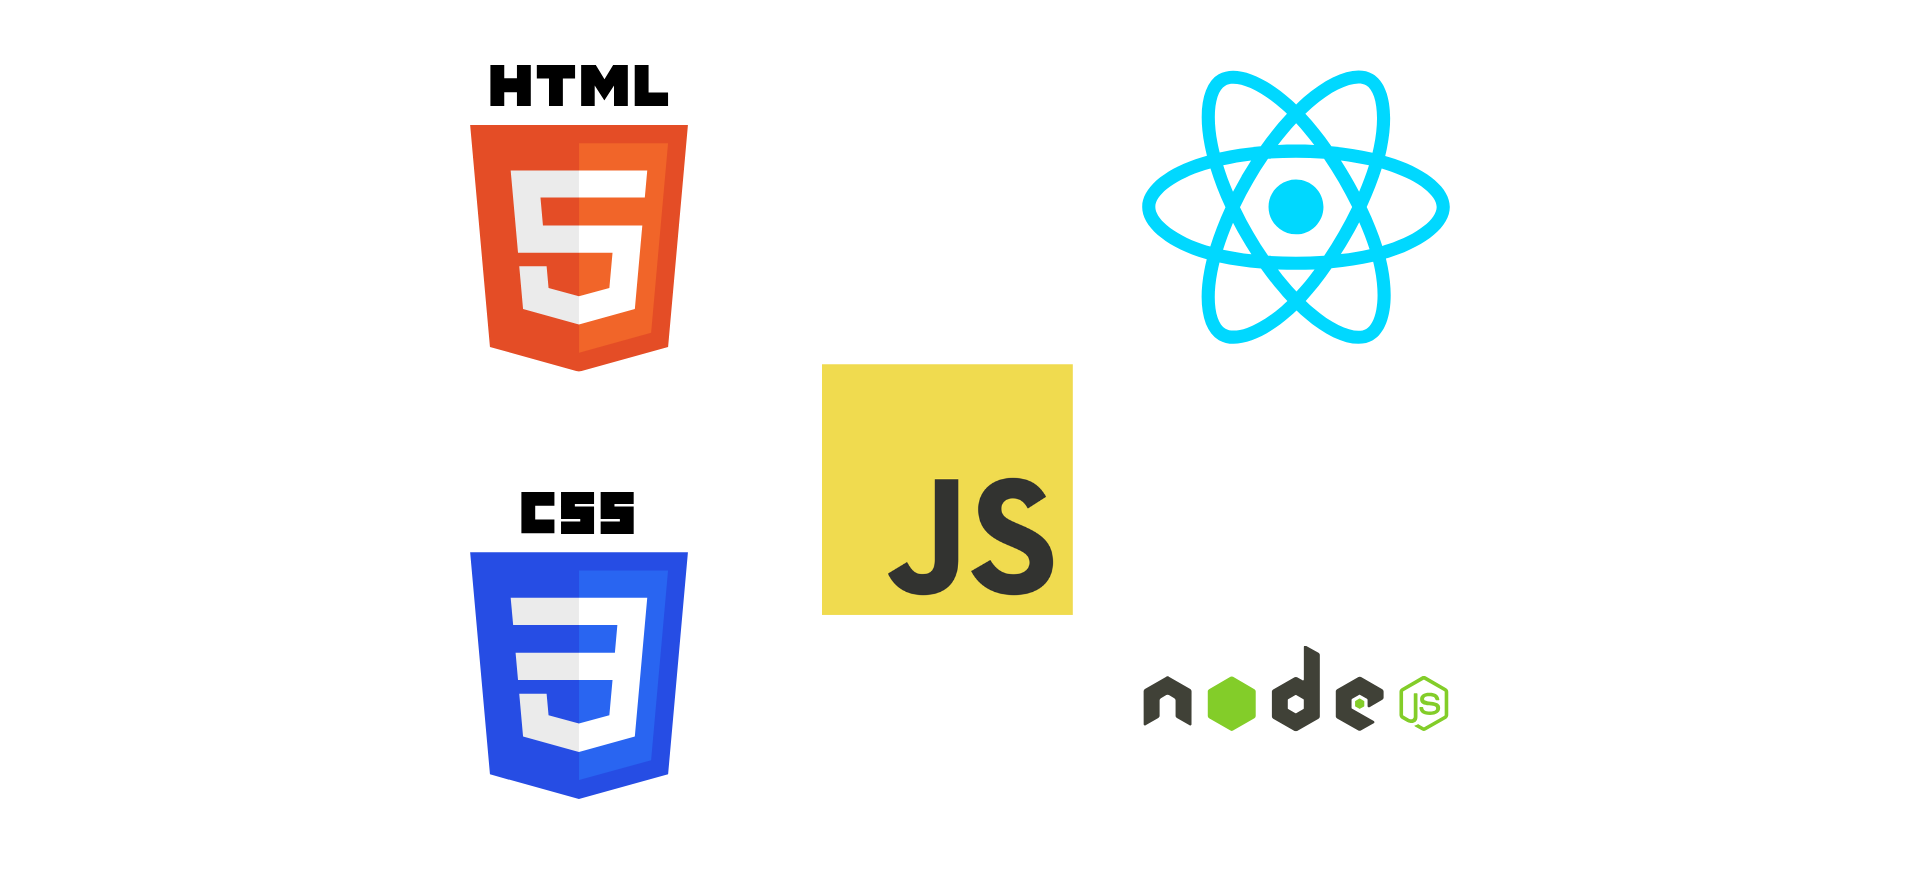
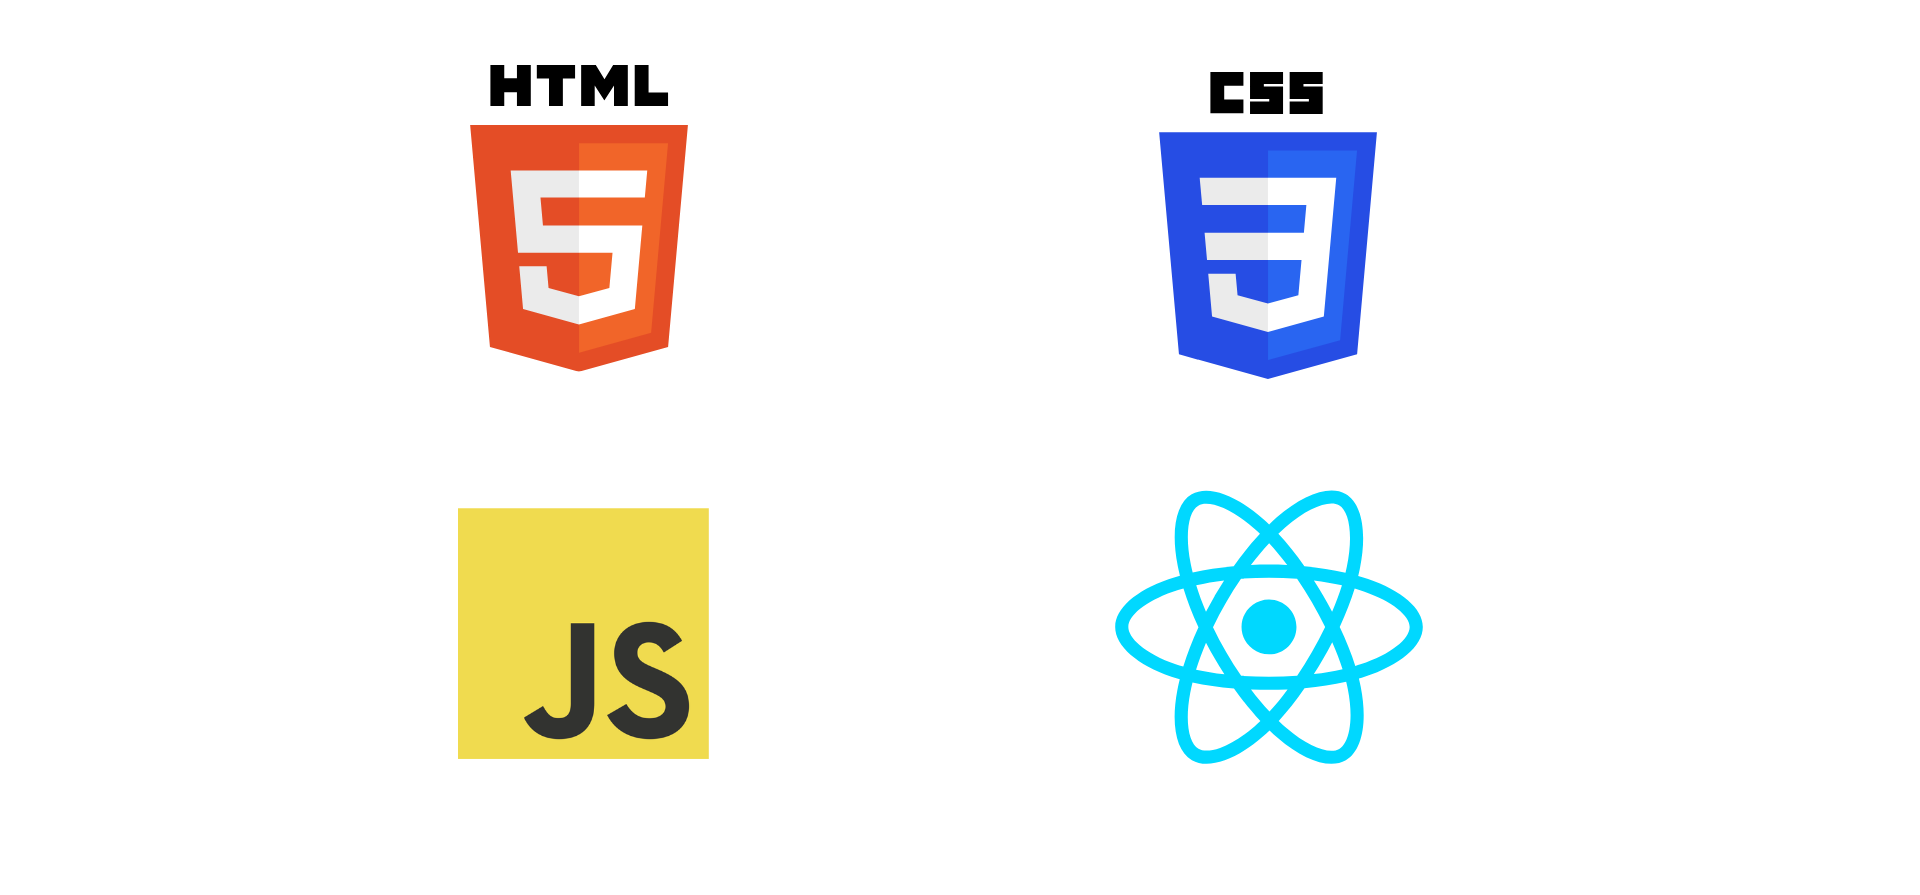
feat: Adds dynamic state initialization for Navigation elements

Changed region(s): [[0.4062, 0.3922, 0.75, 0.8749], [0.2188, 0.543, 0.375, 0.905], [0.5938, 0.0603, 0.7812, 0.4223]]

diff --git a/src/App.jsx b/src/App.jsx
@@ -15,9 +15,12 @@ function App() {
   const [showSplash, setShowSplash] = useState(true);
   const [currentPage, setCurrentPage] = useState('Home');
   const [isMobileMenuOpen, setIsMobileMenuOpen] = useState(false);
+  const [isFloatMenuOpen, setIsFloatMenuOpen] = useState(false);
   const [selectedKey, setSelectedKey] = useState();
   
+  
   const image = <Image src={homeImage} preview={false} style={{ maxHeight:'50vh', borderRadius:'50%'}} />
+  
   const handleClickOutsideMenu = (event) => {
     if (isMobileMenuOpen) {
       setIsMobileMenuOpen(false);
@@ -33,6 +36,19 @@ function App() {
     return () => clearTimeout(timer); // Clear the timeout when the component unmounts
   }, []);
 
+  useEffect(() => {
+    const timeout = setTimeout(() => {
+      if (window.innerWidth >= 768) {
+        setIsMobileMenuOpen(true);
+      } else {
+        setIsFloatMenuOpen(true);
+      }
+    }, 3500);
+  
+    return () => clearTimeout(timeout); // cleanup
+  }, []);
+  
+  
 
   useEffect(() => {
     window.scrollTo(0, 0);
@@ -101,7 +117,7 @@ function App() {
             <Content onClick={handleClickOutsideMenu} style={{ margin: '24px 16px', padding: 24, minHeight: 280 }}>
               {renderComponent()}
             </Content>
-            <FloatButton.Group trigger='click' icon={<InfoCircleOutlined />}>
+            <FloatButton.Group trigger='click' open={isFloatMenuOpen} onClick={() => setIsFloatMenuOpen(!isFloatMenuOpen)} icon={<InfoCircleOutlined />}>
               <FloatButton icon={<UserOutlined />} tooltip={"Home"} onClick={() => setCurrentPage('Home')}></FloatButton>
               <FloatButton icon={<CodeOutlined />} tooltip={"Tech profile"} onClick={() => setCurrentPage('Tech profile')}></FloatButton>
               <FloatButton icon={<FileDoneOutlined />} tooltip={"Experience"} onClick={() => setCurrentPage('Experience')}></FloatButton>

diff --git a/src/components/TechProfile.jsx b/src/components/TechProfile.jsx
@@ -47,7 +47,7 @@ const TechProfile = () => {
       image: cicd,
     },
     {
-      title: 'Infrastructure as Code & Cloud',
+      title: 'IaC & Cloud',
       content: 
       <>
         <p>Designed and deployed scalable cloud architectures using AWS and Terraform, ensuring automation, reliability, and cost efficiency.
@@ -73,7 +73,7 @@ const TechProfile = () => {
       <>
         <p>Mastering web fundamentals is crucial in today's landscape. Understanding the backbone of the web
           allows me to harness powerful development frameworks and build high-quality web applications.
-          <br /></p><Divider /><p><b>{expertise} HTML, CSS, JavaScript, React.js, Node.js</b></p>
+          <br /></p><Divider /><p><b>{expertise} HTML, CSS, JavaScript, React.js</b></p>
       </>,
       image: webdev,
     },

diff --git a/src/components/TechProfile.css b/src/components/TechProfile.css
@@ -1,7 +1,7 @@
 p, b {
     font-family: 'Montserrat', sans-serif;
     font-size: medium;
-};
+}
 
 h1, h3 {
     font-family: 'Montserrat', sans-serif;
